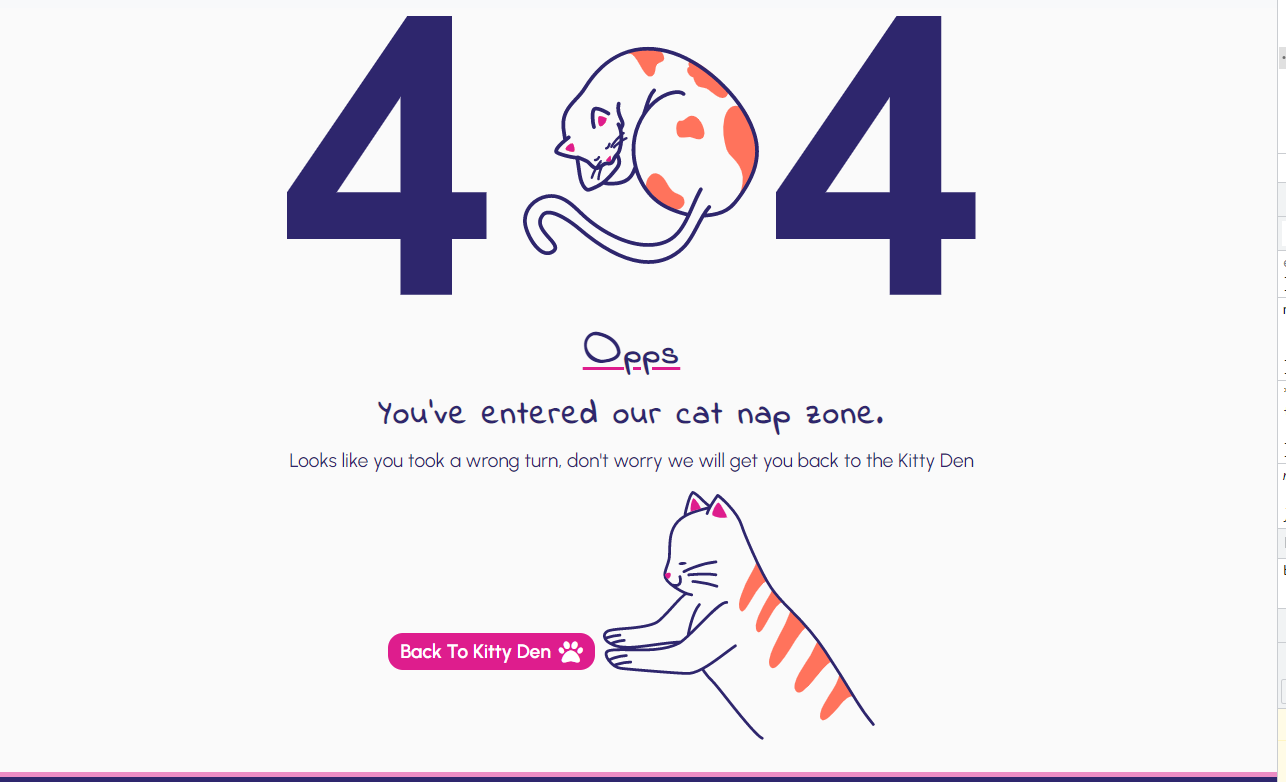
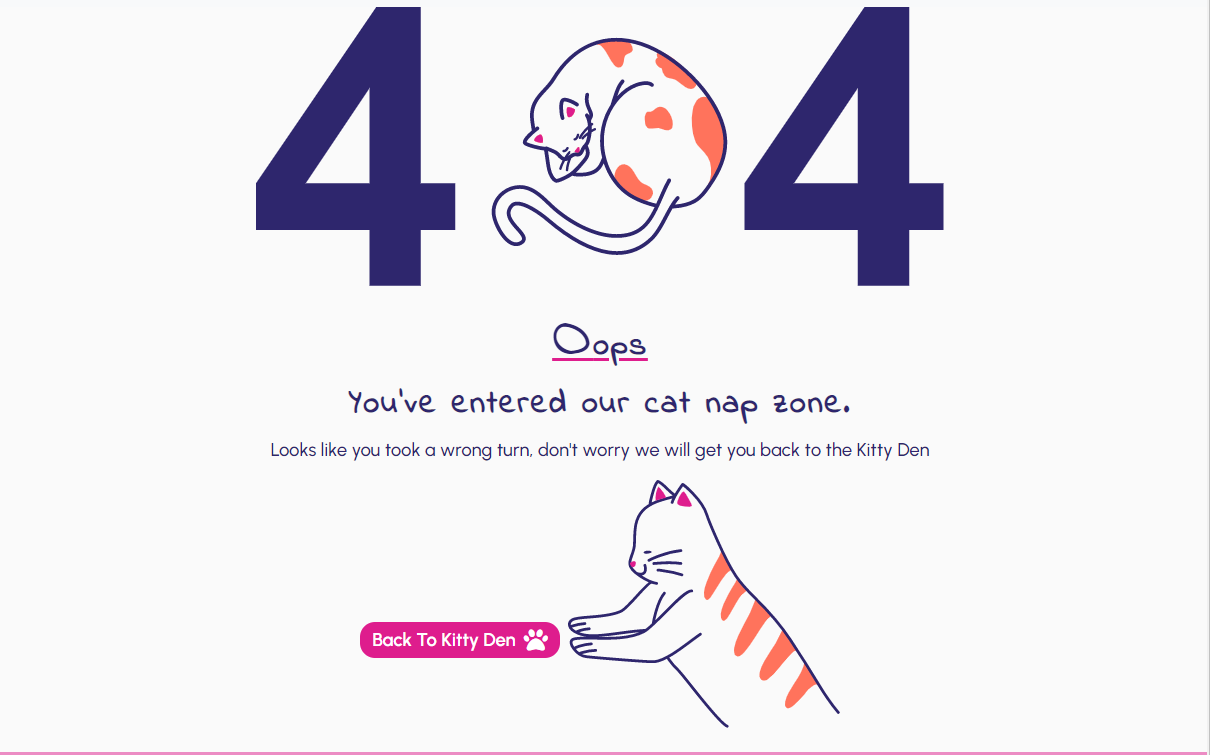
Fix Grammer, typos, spelling and add updated vaildation images and links

diff --git a/README.md b/README.md
@@ -62,7 +62,7 @@ The primary goal is to provide a user-friendly experience for all visitors with 
 
 ### Developer Goals
 - Creating an excellent user experience for the target audience, cat owners looking for cat care services.
-- Provide a simple and intuitive navigation system, Thats makes finding relevant information quickly, such as services and contact details.
+- Provide a simple and intuitive navigation system that makes finding relevant information, such as services and contact details, quick and easy.
 - Create a visually appealing and responsive design regardless of screen size.
 - Provide content that the user can skim read, ensuring accessibility.
  
@@ -86,10 +86,10 @@ The primary goal is to provide a user-friendly experience for all visitors with 
 
 #### First-time User 
 1. As a first-time user, I want to know where the location of Kitty Den is.
-2. As a first-time user, I want to know what their customer think about them.
+2. As a first-time user, I want to know what their customer thinks about them.
 3. As a first-time user, I want to know more about their services and prices.
 4. As a first-time user, I want to know about the staff at Kitty Den.
-5. As a first-time user, I want easily find out how to contact them.
+5. As a first-time user, I want to easily find out how to contact them.
 6. As a first-time user, I want to see what type of environment the cattery has and if it is suitable, safe and stimulating for my cat.
 
 #### Returning User
@@ -241,7 +241,7 @@ The page's structure is in well-known, user-friendly and visually attractive way
 - [WAVE Web Accessibility Evaluation Tool](https://wave.webaim.org/)
 
 ## Features
-The page consists of six pages and 16 features.
+The site consists of six pages and 16 features.
 
 ### Logo and Navigation Bar (Header)
 - Features on all pages.
@@ -270,7 +270,7 @@ The page consists of six pages and 16 features.
 ![Unique selling points](docs/features/usps-section.png)
 
 ### Intro Section
-- Introduces Kitty Den to the user and what they are.
+- Introduces Kitty Den and the services to the user.
 - The Call to action button allows the user to go straight to the contact us page, helping to make conversions quicker.
 - User stories covered: 4, 6, 14.
 
@@ -294,7 +294,7 @@ The page consists of six pages and 16 features.
 ![Footer](docs/features/footer.png)
 
 ### About Us - Kitty Den Description 
-- Introduces the user to Kitty Den and who they are in easy-to-read text.
+- Introduces the user to Kitty Den and explains who they are in easy-to-read text.
 - A colourful hero image is used of a group of cats looking happy and playful.
 - On larger screens, there is an image of a cat playing with toys, but it is not visible on mobile view. It helps to create balance on the desktop screen.
 - User story covered: 6.
@@ -322,7 +322,7 @@ The page consists of six pages and 16 features.
 
 ### Our Services and Prices Cards
 - The cards display the available services and their prices to the user.
-- A simple graphic to prevent distracting the user from the services information but but creates visual interest.
+- A simple graphic to prevent distracting the user from the services information but creates visual interest.
 - A call-to-action button linking to the contact us page allows the user to get to the Contact page quickly.
 - A list of bullet points provides a clear and concise overview of each service's offerings, enabling the user to understand what each service offers.
 - User stories covered: 3, 9, 10, 13.
@@ -360,7 +360,7 @@ The page consists of six pages and 16 features.
 
 ### Business Information and Other Contact Ways
 - Provides the user with more company information.
-- Gives the user with Kitty Den's address.
+- Gives the user Kitty Den's address.
 - Shows the user the Kitty Den's opening times.
 - Provides the user with a clickable contact number for Kitty Den to make it more convenient for them to call.
 - Provides the user with a clickable email address to send Kitty Den an email.
@@ -393,7 +393,6 @@ contactus.html - [Results](https://validator.w3.org/nu/?doc=https%3A%2F%2Fhanmb1
 
 404.html - [Results](https://validator.w3.org/nu/?doc=https%3A%2F%2Fhanmb17.github.io%2FCI_MS1_CATTERY%2F404.html)
 
-
 ### CSS Validation
 The W3C Jigsaw CSS Validation Service was used to validate the CSS of the website.
 
@@ -401,10 +400,11 @@ When using the URL in my index.html, 17 Parse Errors and 8 Value Error: color In
 
 style.css - [Results](https://jigsaw.w3.org/css-validator/validator?uri=https%3A%2F%2Fhanmb17.github.io%2FCI_MS1_CATTERY%2Findex.html&profile=css3svg&usermedium=all&warning=1&vextwarning=&lang=en)
 
-When validating pasting my custom CSS, it passed with no errors and flagged some warnings. One for the checkbox border and background colour - as this is styling I have left them as they are. Some for the moz and webkit transitions and transforms used, 1 for variables not checked and one warning for the Google fonts import used.
+When validating my custom CSS, it passed with no errors and flagged some warnings. One for the checkbox border and background colour - as this is styling I have left them as they are. Some for the moz and webkit transitions and transforms used, 1 for variables not checked and one warning for the Google fonts import used.
 
-style.css - [Results](https://jigsaw.w3.org/css-validator/validator)
-
+<details><summary>Style.css - Results</summary>
+<img src="docs/validation/css-vaildator-results.png">
+</details>
 
 ### Accessibility
 The WAVE WebAIM web accessibility evaluation tool was used to ensure the website met high accessibility standards. All pages pass with 0 errors.
@@ -422,19 +422,19 @@ contactus.html - [Results](https://wave.webaim.org/report#/https://hanmb17.githu
 404.html - [Results](https://wave.webaim.org/report#/https://hanmb17.github.io/CI_MS1_CATTERY/404.html)
 
 ### Performance 
-Google Lighthouse in Google Chrome Developer Tools was used to test the performance of the website pages. All pages perform well.
+PageSpeed Insights a tool by Google was used to test the performance of the website pages. All pages perform well.
 
-index.html - [Results](https://pagespeed.web.dev/analysis/https-hanmb17-github-io-CI_MS1_CATTERY-index-html/9gto311wmm?form_factor=desktop)
+index.html - [Results](https://pagespeed.web.dev/analysis/https-hanmb17-github-io-CI_MS1_CATTERY-index-html/kbtgpmcl2m?form_factor=desktop)
 
-about.html - [Results](https://pagespeed.web.dev/analysis/https-hanmb17-github-io-CI_MS1_CATTERY-about-html/n0jtyrecrt?form_factor=desktop)
+about.html - [Results](https://pagespeed.web.dev/analysis/https-hanmb17-github-io-CI_MS1_CATTERY-about-html/a1kxw4597n?form_factor=desktop)
 
-services.html - [Results](https://pagespeed.web.dev/analysis/https-hanmb17-github-io-CI_MS1_CATTERY-services-html/75rhhakrec?form_factor=desktop)
+services.html - [Results](https://pagespeed.web.dev/analysis/https-hanmb17-github-io-CI_MS1_CATTERY-services-html/kgtkw6tdw6?form_factor=desktop)
 
-gallery.html - [Results](https://pagespeed.web.dev/analysis/https-hanmb17-github-io-CI_MS1_CATTERY-gallery-html/3ed5r8n46h?form_factor=desktop)
+gallery.html - [Results](https://pagespeed.web.dev/analysis/https-hanmb17-github-io-CI_MS1_CATTERY-gallery-html/jl63iumug0?form_factor=desktop)
 
-contactus.html - [Results](https://pagespeed.web.dev/analysis/https-hanmb17-github-io-CI_MS1_CATTERY-contactus-html/fmlhc4rsrn?form_factor=desktop)
+contactus.html - [Results](https://pagespeed.web.dev/analysis/https-hanmb17-github-io-CI_MS1_CATTERY-contactus-html/qza9kmr6c1?form_factor=desktop)
 
-404.html - [Results](https://pagespeed.web.dev/analysis/https-hanmb17-github-io-CI_MS1_CATTERY-404-html/99ounqxrci?form_factor=desktop)
+404.html - [Results](https://pagespeed.web.dev/analysis/https-hanmb17-github-io-CI_MS1_CATTERY-404-html/bi7tfsot6q?form_factor=desktop)
 
 ### Performing tests on various devices
 The website was tested on the following devices:
@@ -451,7 +451,6 @@ The website was tested on the following browsers:
 - Apple Safari
 - Mozilla Firefox
 - Microsoft Edge
-
 
 ### Testing user stories
 
@@ -472,7 +471,7 @@ The website was tested on the following browsers:
 <img src="docs/userstory-testing/finding-the-address-on-the-footer.gif">
 </details>
 
-2. As a first-time user, I want to know what their customer think about them.
+2. As a first-time user, I want to know what their customer thinks about them.
 
 | Feature     | Action      |  Expected Result  | Actual Result |
 |    :----:      |    :----:   |   :----:   |  :----: |
@@ -481,8 +480,6 @@ The website was tested on the following browsers:
 <details><summary>Video of users finding the testomonials</summary>
 <img src="docs/userstory-testing/finding-the-testimonials.gif">
 </details>
-
-<br>
 
 3. As a first-time user, I want to know more about their services and prices.
 
@@ -494,8 +491,6 @@ The website was tested on the following browsers:
 <img src="docs/userstory-testing/finding-the-price-and-services.gif">
 </details>
 
-<br>
-
 4. As a first-time user, I want to know about the staff at Kitty Den.
 
 | Feature     | Action      |  Expected Result  | Actual Result |
@@ -506,9 +501,7 @@ The website was tested on the following browsers:
 <img src="docs/userstory-testing/finding-the-staff.gif">
 </details>
 
-<br>
-
-5. As a first-time user, I want easily find out how to contact them.
+5. As a first-time user, I want to easily find out how to contact them.
 
 | Feature     | Action      |  Expected Result  | Actual Result |
 |    :----:      |    :----:   |   :----:   |  :----: |
@@ -530,8 +523,6 @@ Screenshot of email address
 Screenshot of phone number
 <img src="docs/userstory-testing/phone-number.png">
 </details>
-
-<br>
 
 6. As a first-time user, I want to see what type of environment the cattery has and if it is suitable, safe and stimulating for my cat.
 
@@ -558,8 +549,6 @@ Screenshot of opening times
 <img src="docs/userstory-testing/opening-times.png">
 </details>
 
-<br>
-
 8. As a returning user, I want to find a phone number to call for a booking
 
 | Feature     | Action      |  Expected Result  | Actual Result |
@@ -573,9 +562,7 @@ Screenshot of phone number
 <img src="docs/userstory-testing/phone-number.png">
 </details>
 
-<br>
-
-8. As a returning user, I want to see the pricing.
+9. As a returning user, I want to see the pricing.
 
 | Feature     | Action      |  Expected Result  | Actual Result |
 |    :----:      |    :----:   |   :----:   |  :----: |
@@ -605,8 +592,6 @@ Screenshot of phone number
 <img src="docs/userstory-testing/finding-the-map.gif">
 </details>
 
-<br>
-
 #### Site Owner 
 
 12. As the site owner, I want the urers to learn about our history.
@@ -615,12 +600,9 @@ Screenshot of phone number
 |    :----:      |    :----:   |   :----:   |  :----: |
 | Timeline | Navigate to the About Us page and locates timeline | Locates to the timeline| Works as expected |
 
-
 <details><summary>Video of users finding the timeline</summary>
 <img src="docs/userstory-testing/finding-the-timeline.gif">
 </details>
-
-<br>
 
 13. As the site owner, I want the users to see the cost of our services and what each service includes.
 
@@ -631,8 +613,6 @@ Screenshot of phone number
 <details><summary>Video of users find the price and service cards</summary>
 <img src="docs/userstory-testing/finding-the-price-and-services.gif">
 </details>
-
-<br>
 
 14. As the site owner, I want to make it easy for users to contact us via different methods.
 
@@ -656,8 +636,6 @@ Screenshot of email address
 Screenshot of phone number
 <img src="docs/userstory-testing/phone-number.png">
 </details>
-
-<br>
 
 15. As the site owner, I want the users to get introduced to our skilled staff.
 
